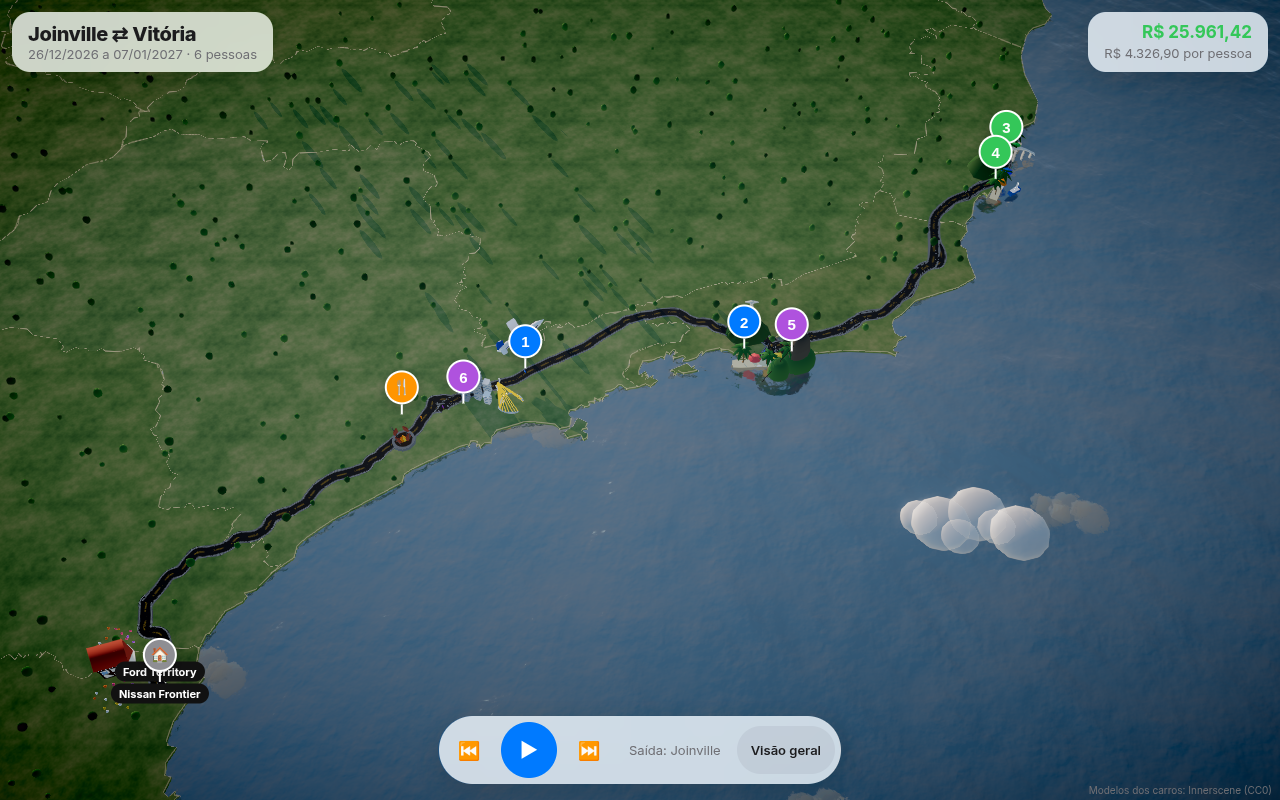
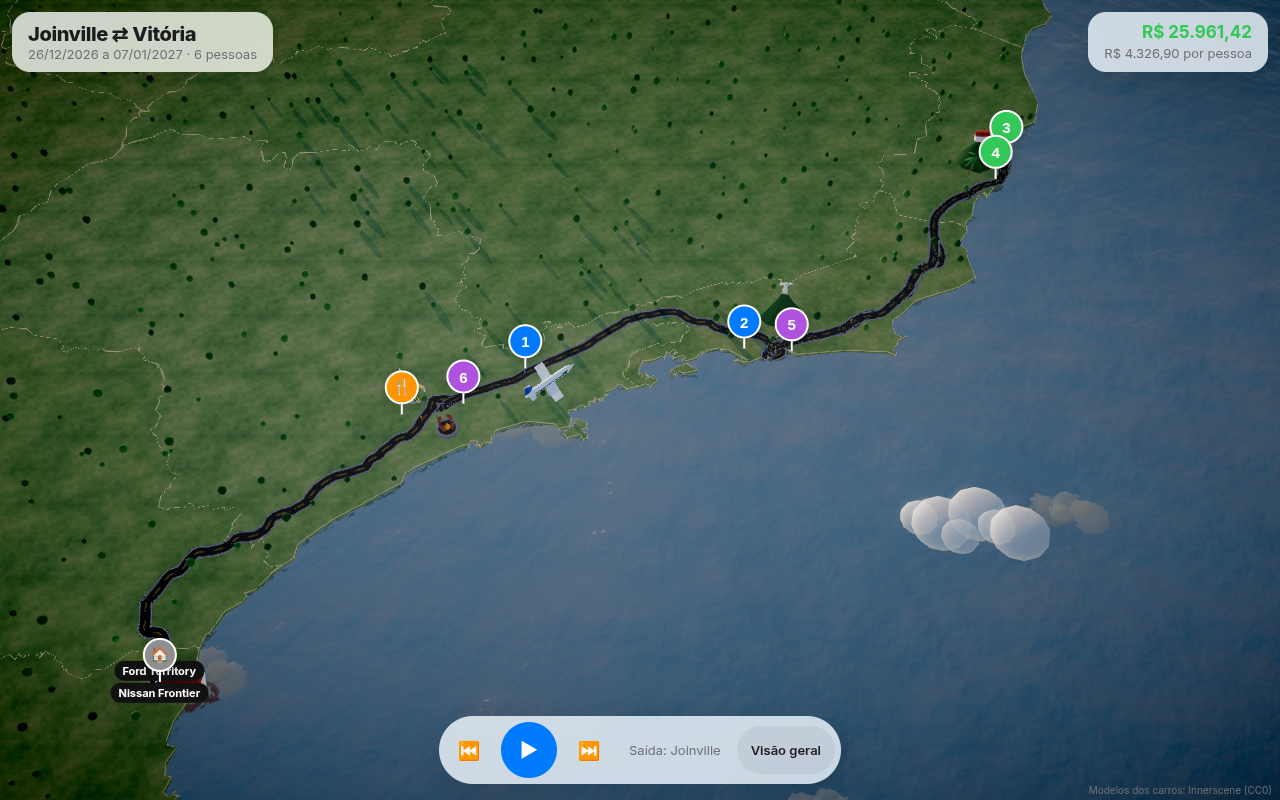
v2: direção pelo movimento real; um marco por cidade ao lado da estrada

diff --git a/v2/index.html b/v2/index.html
@@ -86,7 +86,7 @@ function flowers(g,x,z,n=14,r=.8){const cs=['#ff6b9a','#ffd23f','#ff8c42','#c77d
 function enxaimel(g){add(g,Bx(1.3,.8,.9),'#fbf7ef',0,.4,0);const r=add(g,Cy(.75,.75,1.42,3),'#c4533b',0,1.05,0);r.rotation.z=Math.PI/2;r.scale.set(1,1,.75);
 const W='#5b3a29';[-.6,-.2,.2,.6].forEach(x=>{add(g,Bx(.06,.8,.02),W,x,.4,.46);add(g,Bx(.06,.8,.02),W,x,.4,-.46)});[.02,.4,.78].forEach(y=>{add(g,Bx(1.3,.06,.02),W,0,y,.46);add(g,Bx(1.3,.06,.02),W,0,y,-.46)});
 [[-.4,1],[.4,-1]].forEach(([x,s])=>{const d=add(g,Bx(.05,.5,.02),W,x,.4,.46);d.rotation.z=.7*s});add(g,Bx(.22,.36,.03),W,0,.18,.47);[-.42,.42].forEach(x=>add(g,Bx(.2,.18,.03),'#9fc3e6',x,.55,.47));
-add(g,Bx(.14,.4,.14),'#c4533b',.35,1.25,0);flowers(g,0,1.2,22,1.1);flowers(g,0,-1.1,16,.9)}
+add(g,Bx(.14,.4,.14),'#c4533b',.35,1.25,0);}
 function jet(g){add(g,Cy(.08,.12,.9,6),'#b8bec8',0,.45,0);const p=new THREE.Group();p.position.y=1.15;p.rotation.z=.35;g.add(p);
 const f=add(p,Cy(.17,.17,2.2,10),'#ffffff',0,0,0);f.rotation.z=Math.PI/2;const n=add(p,Co(.17,.45,10),'#ffffff',1.32,0,0);n.rotation.z=-Math.PI/2;const t=add(p,Co(.17,.35,10),'#ffffff',-1.27,0,0);t.rotation.z=Math.PI/2;
 add(p,Bx(.5,.04,2.4),'#e9edf3',0,-.04,0);add(p,Bx(.3,.03,.9),'#e9edf3',-1.05,.05,0);const fin=add(p,Bx(.38,.55,.04),'#1f5fbf',-1.05,.32,0);fin.rotation.z=-.4;add(p,Bx(1.9,.05,.36),'#1f5fbf',0,0,0).visible=false;
@@ -109,23 +109,24 @@ function ponte(g,len=4.4){const n=12;for(let i=0;i<n;i++){const t0=i/n,t1=(i+1)/
 if(i%2==1)add(g,Bx(.1,y0,.2),'#cfcac0',x0,y0/2,0)}}
 function boat(g,c='#ffffff'){add(g,Bx(.8,.18,.3),'#2f6fb5',0,.1,0);add(g,Bx(.5,.06,.26),c,0,.22,0);add(g,Cy(.015,.015,.8,4),'#ffffff',0,.6,0);const s=add(g,Co(.3,.7,3),'#ffffff',.1,.58,0);s.scale.set(.6,1,.08)}
 function skyline(g){const T=[[0,0,2.2,'#9aa7b6'],[.5,.3,1.6,'#b7c0cb'],[-.5,.25,1.3,'#c9ced4'],[.2,-.5,1.1,'#8c99a8'],[-.3,-.45,1.8,'#aab4c0'],[.85,-.2,1,'#c3c9d0'],[-.9,-.1,.9,'#a4afbd'],[1.1,.4,.7,'#d2d6db'],[-.1,.6,1.4,'#97a3b1']];const gm=M('#7ea2c2',{metalness:.6,roughness:.15});
-T.forEach(([x,z,h,c])=>{add(g,Bx(.34,h,.34),c,x,h/2,z);for(let y=.15;y<h-.05;y+=.16){const w=new THREE.Mesh(Bx(.345,.06,.345),gm);w.position.set(x,y,z);g.add(w)}add(g,Bx(.36,.04,.36),'#ffffff',x,h,z)});
-const ex=1.9,ez=.4,wm=M('#f4f4f2',{roughness:.4});const legs=[[-.22,.22],[.22,-.22]];legs.forEach(([a,b])=>{const m=new THREE.Mesh(Cy(.035,.06,2.3,8),wm);m.position.set(ex,1.1,ez+(a+b)/2);m.rotation.x=a>0?.2:-.2;g.add(m)});add(g,Bx(.05,.05,.5),'#f4f4f2',ex,.42,ez);
+if(0)T.forEach(([x,z,h,c])=>{add(g,Bx(.34,h,.34),c,x,h/2,z);for(let y=.15;y<h-.05;y+=.16){const w=new THREE.Mesh(Bx(.345,.06,.345),gm);w.position.set(x,y,z);g.add(w)}add(g,Bx(.36,.04,.36),'#ffffff',x,h,z)});
+const ex=0,ez=0,wm=M('#f4f4f2',{roughness:.4});const legs=[[-.22,.22],[.22,-.22]];legs.forEach(([a,b])=>{const m=new THREE.Mesh(Cy(.035,.06,2.3,8),wm);m.position.set(ex,1.1,ez+(a+b)/2);m.rotation.x=a>0?.2:-.2;g.add(m)});add(g,Bx(.05,.05,.5),'#f4f4f2',ex,.42,ez);
 const top=new THREE.Vector3(ex,2.15,ez);const cab=[];[-1,1].forEach(sd=>{const pts=[];for(let i=0;i<=16;i++){const t=i/16,a=sd*(.3+t*1.6);pts.push(new THREE.Vector3(ex+Math.sin(a)*1.2*t*sd,.36+.08*Math.sin(Math.PI*t),ez+sd*(.35+Math.sin(t*Math.PI)*.3)))}const c=new THREE.CatmullRomCurve3(pts);g.add(new THREE.Mesh(new THREE.TubeGeometry(c,24,.05,4,false),M('#d9d9d6')));for(let i=2;i<=16;i+=2)cab.push(top.clone(),pts[i])});
 g.add(new THREE.LineSegments(new THREE.BufferGeometry().setFromPoints(cab),new THREE.LineBasicMaterial({color:'#ffd23f'})))}
 const LM=new THREE.Group();scene.add(LM);
 function put(fn,lat,lon,s=1,ry=0){const g=new THREE.Group();fn(g);g.position.copy(P(lat,lon,.3));g.scale.setScalar(s);g.rotation.y=ry;LM.add(g);return g}
 const S1=W?1.9:1.7;
-put(enxaimel,-26.12,-49.25,1.1*S1,.3);
-put(jet,-22.93,-45.95,1.1*S1,.5);
-put(grill,-23.98,-47.05,.9*S1);
-put(skyline,-23.42,-46.42,1*S1,-.3);
-put(cristo,-22.72,-43.55,1*S1);let cableCar;put(g=>{cableCar=paoAcucar(g)},-23.07,-43.05,1*S1,.4);
-put(g=>{sand(g,0,0,3.4,.5);palm(g,-1.1,-.05,1);palm(g,.2,.05,.9);palm(g,1.3,0,1.05);umbrella(g,-.5,.1,'#ff6b6b');umbrella(g,.8,.12,'#ffd23f')},-23.09,-43.42,1*S1,.05);
-put(convento,-20.42,-40.55,1*S1);put(ponte,-20.315,-40.27,.8*S1,.25);
-put(g=>{sand(g,0,0,2.4,.5);palm(g,-.8,0,1);palm(g,.6,.05,.85);umbrella(g,0,.1,'#34c759')},-20.17,-40.2,1*S1,1.0);
-put(g=>{sand(g,0,0,2.6,.5);palm(g,-.9,0,.95);palm(g,.2,0,1.05);umbrella(g,-.3,.1,'#ff9500');umbrella(g,.8,.1,'#007aff')},-20.69,-40.46,1*S1,1.1);
-const boatG=put(boat,-20.78,-40.3,1.1*S1,.6);
+const RP=[];D.S.forEach(s=>s.coords.forEach((c,i)=>{if(i%2==0)RP.push(P(c[0],c[1]))}));const PINS=[[-26.3045,-48.8487],...D.S.map(s=>s.ll),...(D.S[0].lunch?[D.S[0].lunch.ll]:[])].map(l=>P(l[0],l[1]));const PLACED=[];
+function clear(v,r){for(const q of RP)if((q.x-v.x)**2+(q.z-v.z)**2<r*r)return false;for(const q of PINS)if((q.x-v.x)**2+(q.z-v.z)**2<(r*.9)**2)return false;for(const q of PLACED)if((q.x-v.x)**2+(q.z-v.z)**2<(r*1.6)**2)return false;return true}
+function side(fn,lat,lon,s,r,ry=0){const a=P(lat,lon);let best=null;for(let rad=r;rad<r*6&&!best;rad+=.5)for(let k=0;k<16;k++){const ang=k*Math.PI/8;const v=new THREE.Vector3(a.x+Math.cos(ang)*rad,0,a.z+Math.sin(ang)*rad);const ln=(v.x/(K*C0))-44,lt=-(v.z/K)-22.5;if(inLand(ln,lt)&&clear(v,r)){best=v;break}}
+const g=new THREE.Group();fn(g);g.position.copy(best||a).setY(.3);g.scale.setScalar(s);g.rotation.y=ry;LM.add(g);PLACED.push(g.position.clone());return g}
+side(enxaimel,-26.3045,-48.8487,1.1*S1,2.4,.3);
+side(jet,D.S[0].ll[0],D.S[0].ll[1],1.1*S1,3,.5);
+if(D.S[0].lunch)side(grill,D.S[0].lunch.ll[0],D.S[0].lunch.ll[1],.9*S1,2.2);
+side(cristo,D.S[1].ll[0],D.S[1].ll[1],1*S1,3.2);
+side(convento,D.S[2].ll[0],D.S[2].ll[1],1*S1,3);
+side(g=>palm(g,0,0,1.3),D.S[3].ll[0],D.S[3].ll[1],1*S1,1.6);
+side(skyline,D.S[5].ll[0],D.S[5].ll[1],1*S1,2.6,-.3);
 // trees (instanced) on land
 function inLand(lon,lat){for(const st of GEO)for(const poly of st.p){const r=poly[0];let c=false;for(let i=0,j=r.length-1;i<r.length;j=i++){const[xi,yi]=r[i],[xj,yj]=r[j];if(((yi>lat)!=(yj>lat))&&(lon<(xj-xi)*(lat-yi)/(yj-yi)+xi))c=!c}if(c)return true}return false}
 {const N=W?260:460;const tg=new THREE.IcosahedronGeometry(.28,1);tg.scale(1,1.25,1);tg.translate(0,.42,0);const im=new THREE.InstancedMesh(tg,new THREE.MeshStandardMaterial({roughness:.9}),N);im.castShadow=true;const mx=new THREE.Matrix4(),col=new THREE.Color();let k=0,seed=7;const rnd=()=>(seed=(seed*16807)%2147483647)/2147483647;
@@ -139,7 +140,7 @@ g.position.set(-90+i*34,30+i%3*4,-30+((i*53)%90));g.scale.setScalar(1.2+i%3*.4);
 
 function ambient(t,dt){if(water)water.material.uniforms.time.value+=dt*.6;
 clouds.forEach((c,i)=>{c.position.x+=.012*(1+i%3*.3);if(c.position.x>110)c.position.x=-110});
-boatG.position.y=.3+Math.sin(t*1.5)*.05;boatG.rotation.z=Math.sin(t*1.2)*.05;if(cableCar){const u=(Math.sin(t*.4)+1)/2;cableCar.position.set(-.7+(-.0-(-.7))*0+(-1.4*u+0*(1-u))*0+(-1.4)*u+0*(1-u)*0,0,0);cableCar.position.set(-1.4*u,1.4+(.62-1.4)*u,.3*u)}}
+}
 
 // route
 const Y=.36;const path=[],segStop=[];let lunchD=0;const ROADS=[];
@@ -175,7 +176,7 @@ m.traverse(o=>{if(o.isMesh){o.castShadow=true;o.receiveShadow=true;const n=o.mat
 const c=cars[i];c.o.add(piv);const pool=new THREE.Mesh(new THREE.PlaneGeometry(2.2,1.3),new THREE.MeshBasicMaterial({map:poolTex,transparent:true,depthWrite:false,blending:THREE.AdditiveBlending,opacity:.35}));pool.rotation.x=-Math.PI/2;pool.position.set(1.85,.03,0);c.o.add(pool);if(i==0&&!W){const sl=new THREE.SpotLight('#fff1d0',30,10,.45,.6,1.5);sl.position.set(.7,.35,0);sl.target.position.set(4,0,0);c.o.add(sl,sl.target)}}));
 cars.forEach(c=>{c.o.scale.setScalar(1);scene.add(c.o);c.o.traverse(o=>{if(o.isMesh)o.castShadow=true});c.el=document.createElement('div');c.el.className='car';c.el.textContent=c.name;if(cars.indexOf(c)==1)c.el.style.marginTop='22px';document.body.appendChild(c.el)});
 const GAP=2.4,CARYAW=Math.PI;const hd=[0,0];
-function place(d,dt=1){cars.forEach((c,i)=>{const dd=Math.max(0,d-i*GAP);const[p]=at(dd);const[pa]=at(dd-.6),[pb]=at(dd+.9);const dir=pb.clone().sub(pa);if(dir.lengthSq()>1e-6){let a=Math.atan2(-dir.z,dir.x);let df=a-hd[i];df=Math.atan2(Math.sin(df),Math.cos(df));hd[i]+=df*Math.min(1,dt*8)}c.o.rotation.y=hd[i];const n=new THREE.Vector3(Math.sin(hd[i]),0,Math.cos(hd[i]));c.o.position.copy(p).addScaledVector(n,.28).setY(Y-.03)})}
+function place(d,dt=1){cars.forEach((c,i)=>{const dd=Math.max(0,d-i*GAP);const[p]=at(dd);let[q]=at(dd+.35),m=q.clone().sub(p);if(m.lengthSq()<1e-8){const[r]=at(dd-.35);m=p.clone().sub(r)}if(m.lengthSq()>1e-8)hd[i]=Math.atan2(-m.z,m.x);c.o.rotation.y=hd[i];const n=new THREE.Vector3(Math.sin(hd[i]),0,Math.cos(hd[i]));c.o.position.copy(p).addScaledVector(n,.28).setY(Y-.03)})}
 // pins
 const PIN=[{k:'home',ll:[-26.3045,-48.8487],lab:'🏠',col:'#8e8e93'}];D.S.forEach(s=>{if(s.n<7)PIN.push({k:s.n,dx:s.n==2?-20:s.n==5?20:s.n==6?20:0,ll:s.ll,lab:s.n,col:s.n<=2?'#007AFF':s.n<=4?'#34C759':'#AF52DE'})});
 if(L0)PIN.push({k:'lunch',dx:-20,ll:L0.ll,lab:'🍴',col:'#FF9500'});
@@ -228,6 +229,9 @@ ambient(clock.elapsedTime,dt);ctr.enabled=view!='chase';if(view=='chase')cam.loo
 PIN.forEach(p=>proj(p.v,p.el,p.dx||0));cars.forEach(c=>{tmp.copy(c.o.position);tmp.y+=.8;proj(tmp,c.el)});requestAnimationFrame(loop)}
 place(0);ui();loop();if(location.hash=='#demo')go(1);const CL={'#rio':[-23.0,-43.35,[-3,9,10]],'#vix':[-20.4,-40.35,[-3,9,10]]};if(CL[location.hash]){const[a,b,o]=CL[location.hash];const p=P(a,b,0);ctr.target.copy(p);cam.position.copy(p).add(new THREE.Vector3(...o));follow=false}if(location.hash=='#mid'){dist=stopD[2]*.6;place(dist);const p=cars[0].o.position;ctr.target.copy(p);cam.position.copy(p).add(new THREE.Vector3(-6,12,10));follow=false}if(location.hash=='#close'){dist=lunchD*.4;place(dist);const p=cars[0].o.position;ctr.target.copy(p);cam.position.copy(p).add(new THREE.Vector3(-2.2,2.2,3));follow=false}if(location.hash.startsWith('#card'))openCard(location.hash.slice(5)=='total'?'total':+location.hash.slice(5));
 addEventListener('resize',()=>{cam.aspect=innerWidth/innerHeight;cam.updateProjectionMatrix();renderer.setSize(innerWidth,innerHeight);if(composer)composer.setSize(innerWidth,innerHeight)});
-if(location.hash=='#chase'||location.hash=='#chase2'){dist=location.hash=='#chase'?stopD[1]+(stopD[2]-stopD[1])*.62:lunchD*.55;for(let i=0;i<30;i++)place(dist,.1);view='chase';snap=true;cvb.textContent='Visão geral'}
+if(location.hash.startsWith('#arr')){const n=+location.hash.slice(4);dist=stopD[n];cur=n;place(dist);stopView(n);cam.position.copy(tw.p);ctr.target.copy(tw.t);tw=null}
+if(['#chase','#chase2','#chase3'].includes(location.hash)){dist=location.hash=='#chase'?stopD[1]+(stopD[2]-stopD[1])*.62:location.hash=='#chase3'?stopD[5]+(stopD[6]-stopD[5])*.5:lunchD*.55;for(let i=0;i<30;i++)place(dist,.1);view='chase';snap=true;cvb.textContent='Visão geral'}
+if(location.hash=='#test'){const T=()=>{if(cars.some(c=>!c.o.children.length)){setTimeout(T,200);return}const pts=[['Joinville->Costela',lunchD*.5],['Costela->SJC',(lunchD+stopD[1])/2]];for(let k=1;k<stopD.length-1;k++)pts.push([names[k]+'->'+names[k+1],(stopD[k]+stopD[k+1])/2]);
+const out=[];pts.forEach(([nm,d])=>{place(d+GAP);scene.updateMatrixWorld(true);cars.forEach((c,i)=>{const dd=d+GAP-i*GAP;const F=new THREE.Box3(),B=new THREE.Box3();c.o.traverse(o=>{if(o.isMesh){if(o.material===lensW)F.expandByObject(o);if(o.material===lensR)B.expandByObject(o)}});const f=F.getCenter(new THREE.Vector3()).sub(B.getCenter(new THREE.Vector3())).setY(0).normalize();const[a]=at(dd),[b]=at(dd+.05);const m=b.sub(a).setY(0).normalize();out.push(nm+' | '+c.name+' | dot='+f.dot(m).toFixed(3)+(f.dot(m)>.9?' OK':' FAIL'))})});const e=document.createElement('pre');e.id='test';e.textContent=out.join('\n');document.body.appendChild(e)};T()}
 window.__v2={go,openCard,get dist(){return dist},set dist(v){dist=v},stopD};
 </script><div style="position:fixed;right:8px;bottom:4px;font-size:10px;color:#6e6e73;z-index:4">Modelos dos carros: Innerscene (CC0)</div></body></html>
